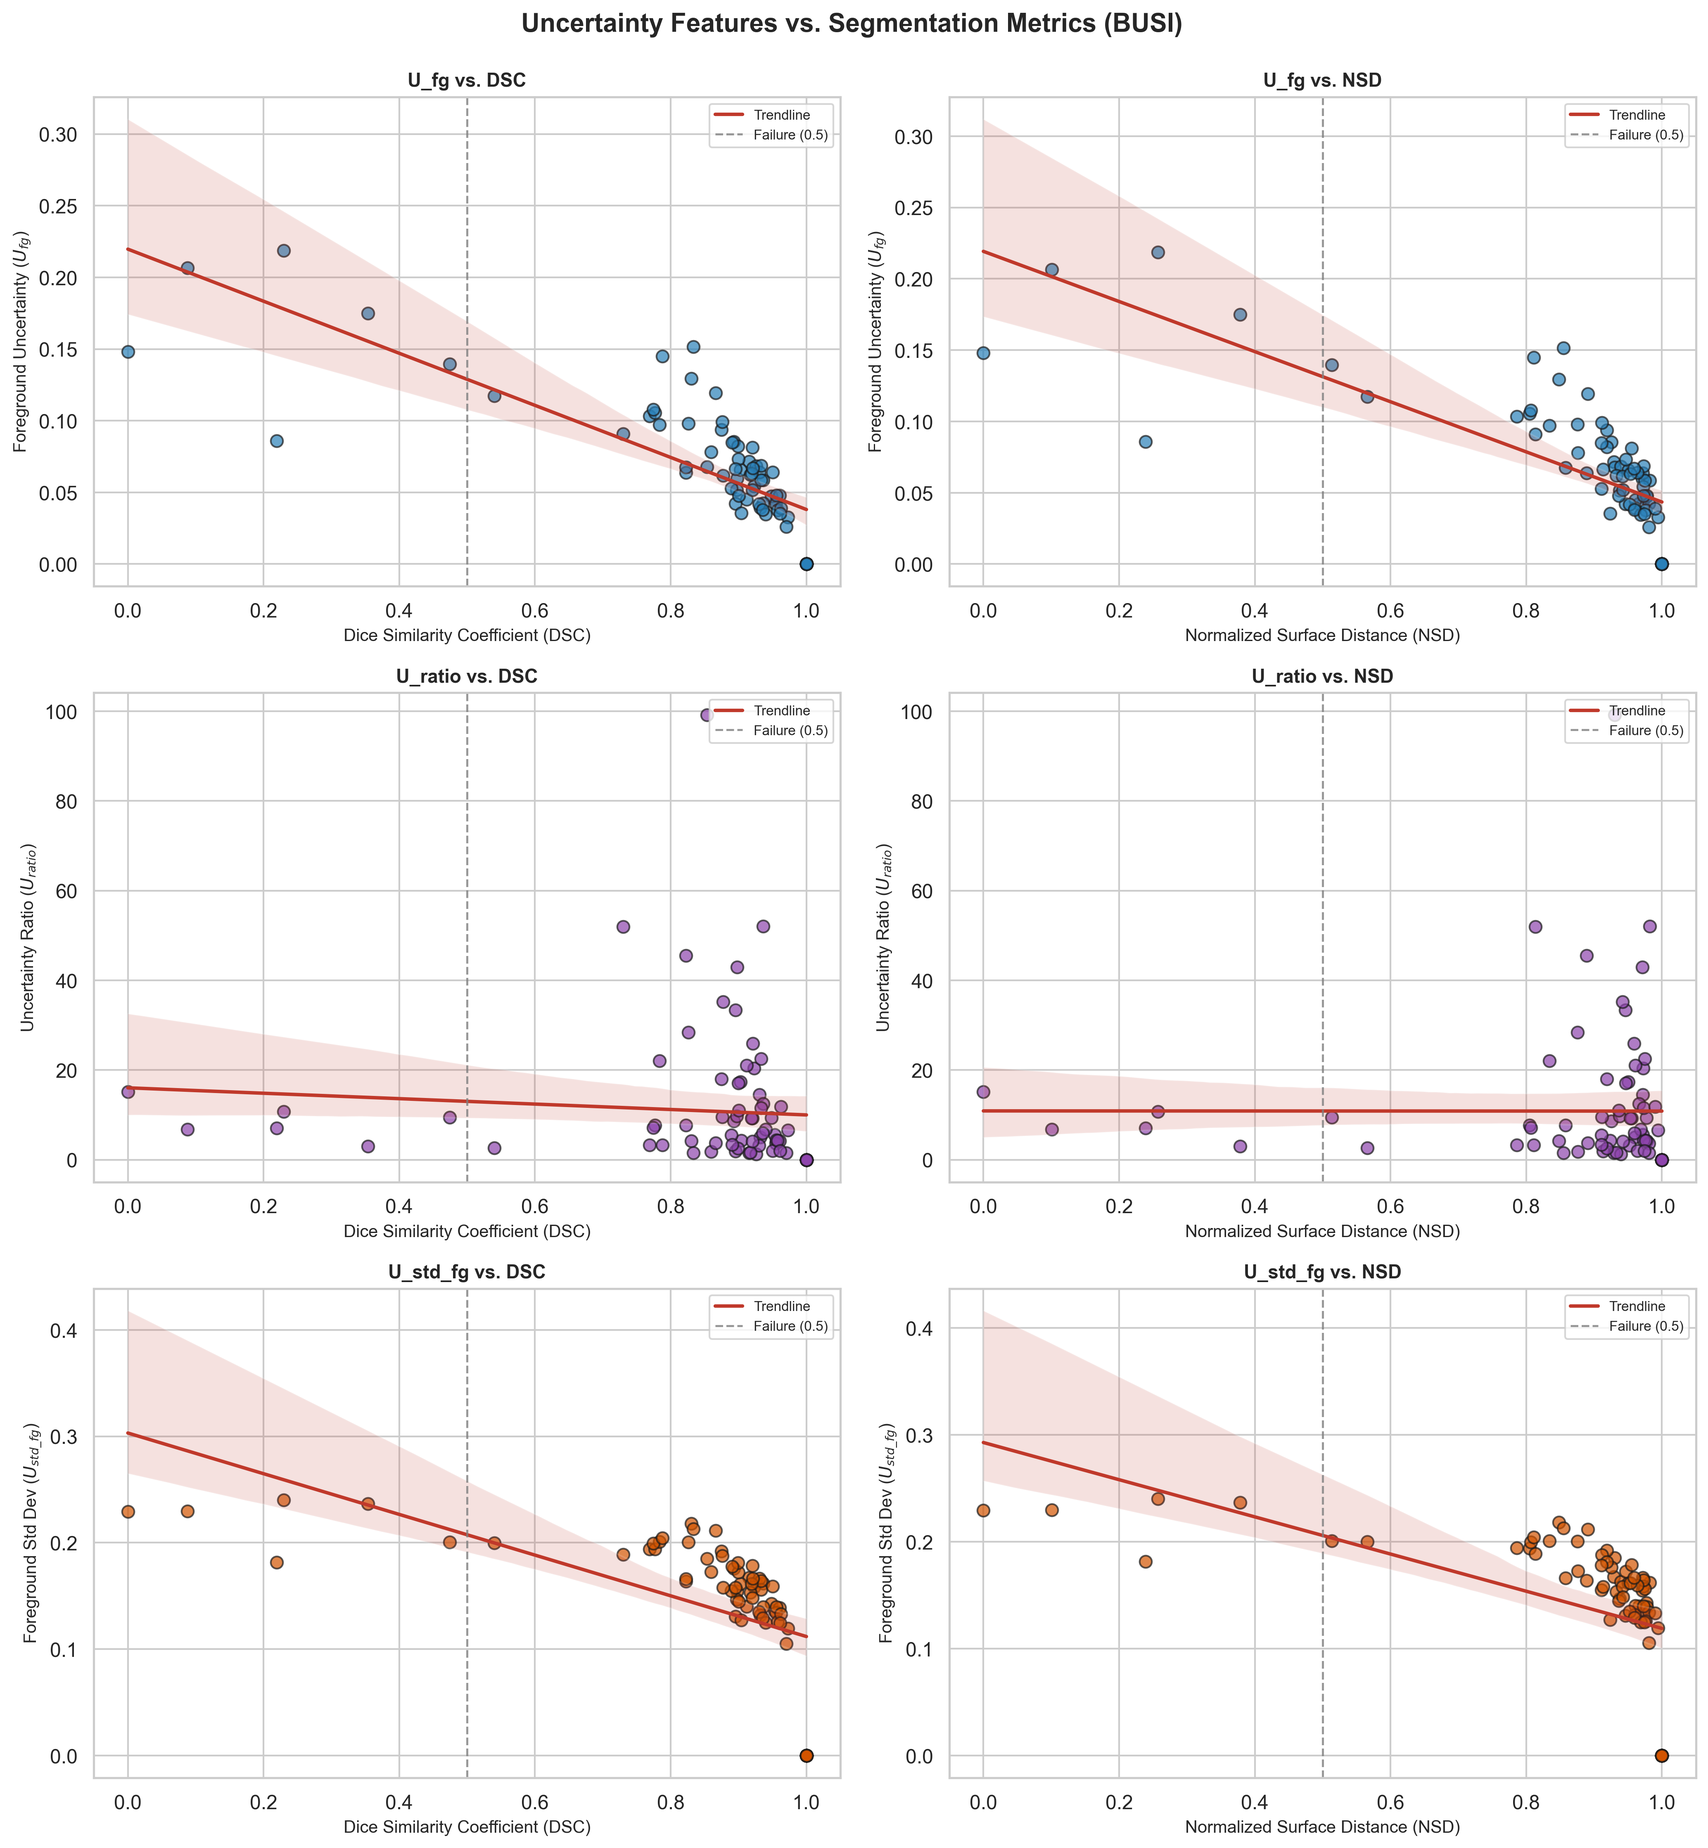
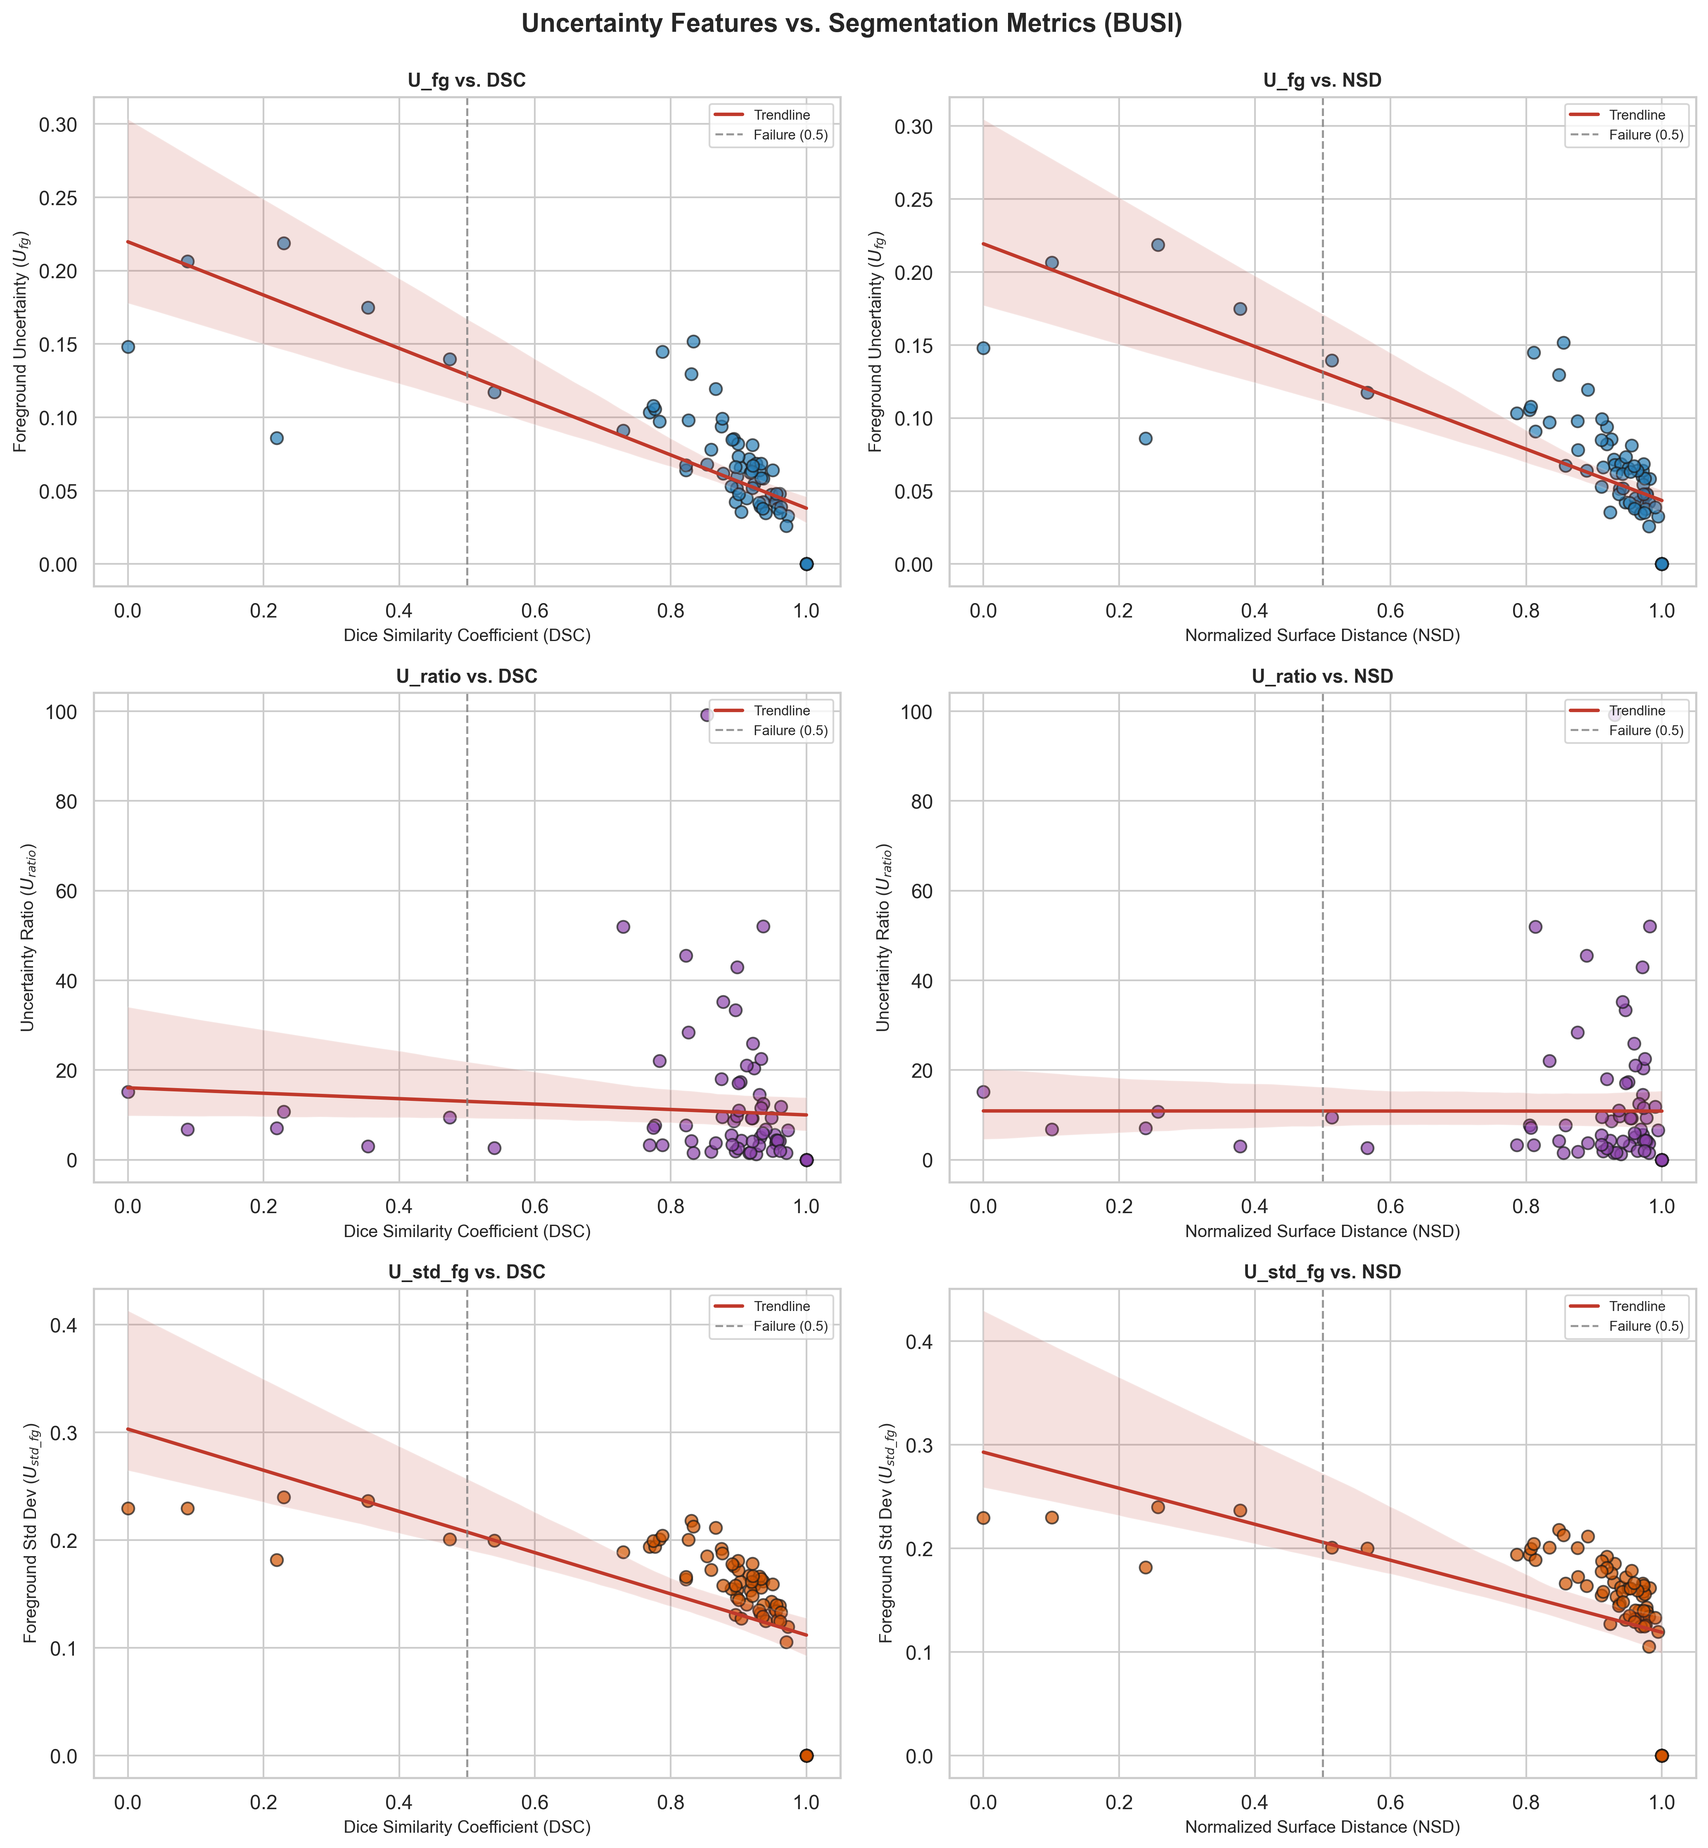
feat(architecture): rename workstreams to research contributions (uncertainty_rejection, prompt_robustness)

diff --git a/uncertainty_rejection/research/aggregation/run_aggregation.py b/uncertainty_rejection/research/aggregation/run_aggregation.py
@@ -12,10 +12,10 @@ import numpy as np
 import matplotlib.pyplot as plt
 import seaborn as sns
 
-# Add paths for fernando modules and shared repo
+# Add paths for uncertainty_rejection modules and shared repo
 REPO_ROOT = os.path.abspath(os.path.join(os.path.dirname(__file__), "..", "..", ".."))
 sys.path.insert(0, REPO_ROOT)
-sys.path.insert(0, os.path.join(REPO_ROOT, "fernando", "src"))
+sys.path.insert(0, os.path.join(REPO_ROOT, "uncertainty_rejection", "src"))
 sys.path.insert(0, os.path.join(REPO_ROOT, "shared"))
 
 from uncertainty.aggregation import extract_image_features

diff --git a/uncertainty_rejection/research/selective_prediction/run_selective_prediction.py b/uncertainty_rejection/research/selective_prediction/run_selective_prediction.py
@@ -10,10 +10,10 @@ import argparse
 import pandas as pd
 import numpy as np
 
-# Add paths for fernando modules and shared repo
+# Add paths for uncertainty_rejection modules and shared repo
 REPO_ROOT = os.path.abspath(os.path.join(os.path.dirname(__file__), "..", "..", ".."))
 sys.path.insert(0, REPO_ROOT)
-sys.path.insert(0, os.path.join(REPO_ROOT, "fernando", "src"))
+sys.path.insert(0, os.path.join(REPO_ROOT, "uncertainty_rejection", "src"))
 sys.path.insert(0, os.path.join(REPO_ROOT, "shared"))
 
 from uncertainty.aggregation import extract_image_features

diff --git a/uncertainty_rejection/tests/test_imports.py b/uncertainty_rejection/tests/test_imports.py
@@ -5,7 +5,7 @@ import sys
 
 REPO_ROOT = os.path.abspath(os.path.join(os.path.dirname(__file__), "..", ".."))
 sys.path.insert(0, REPO_ROOT)
-sys.path.insert(0, os.path.join(REPO_ROOT, "fernando", "src"))
+sys.path.insert(0, os.path.join(REPO_ROOT, "uncertainty_rejection", "src"))
 sys.path.insert(0, os.path.join(REPO_ROOT, "shared"))
 
 

diff --git a/uncertainty_rejection/tests/test_uncertainty.py b/uncertainty_rejection/tests/test_uncertainty.py
@@ -4,7 +4,7 @@ import os
 import sys
 
 REPO_ROOT = os.path.abspath(os.path.join(os.path.dirname(__file__), "..", ".."))
-sys.path.insert(0, os.path.join(REPO_ROOT, "fernando", "src"))
+sys.path.insert(0, os.path.join(REPO_ROOT, "uncertainty_rejection", "src"))
 
 import numpy as np
 import pandas as pd

diff --git a/README.md b/README.md
@@ -8,15 +8,15 @@
 
 ---
 
-## 1. Project Overview & Team Structure
+## 1. Project Overview & Research Architecture
 
 This project extends the MedCLIPSeg baseline into two independent, complementary research workstreams within the IMPACT Lab framework (**BASELINE + ONE CHANGE + FAIR EVALUATION**).
 
-The repository is organized strictly by **research owner**:
+The repository is organized strictly by **research contribution**:
 
 ```text
 MedCLIPSeg-plus-plus/
-├── fernando/                          # Fernando's Research Subproject (Uncertainty & Selective Prediction)
+├── uncertainty_rejection/             # Uncertainty Quantification & Selective Prediction
 │   ├── src/uncertainty/               # Uncertainty extraction, aggregation & rejection library
 │   ├── research/                      # Level 0 experiments (Stages 01-04)
 │   ├── systems/                       # Level 1 (Priority UI) & Level 2 (Similarity Search)
@@ -24,7 +24,7 @@ MedCLIPSeg-plus-plus/
 │   ├── scripts/                       # Stage 02/03 runner scripts & test runner
 │   └── tests/                         # Automated unit & integration tests
 │
-├── ehsan/                             # Ehsan's Research Subproject (Prompt Robustness)
+├── prompt_robustness/                 # Text-Prompt Robustness & Perturbation Analysis
 │   └── research/                      # Text-prompt perturbation & sensitivity experiments
 │
 ├── shared/                            # Minimal Shared Baseline & Infrastructure
@@ -45,13 +45,13 @@ MedCLIPSeg-plus-plus/
 
 ---
 
-## 2. Team Workstreams Summary
+## 2. Research Contributions & Team Credits
 
-| Subproject | Research Owner | Contribution / Scope | Dedicated Branch | Subproject Guide |
-| :--- | :--- | :--- | :--- | :--- |
-| **`fernando/`** | Fernando Garcia Medina | **Uncertainty-Based Selective Prediction**: Raw pixel-level entropy extraction, 5 aggregation metrics, validation threshold calibration, risk-coverage curves, control benchmarks, and domain shift evaluation. | `feature/fernando-uncertainty` | [`fernando/README.md`](fernando/README.md) |
-| **`ehsan/`** | Ehsan | **Text-Prompt Robustness**: Prompt perturbation analysis, linguistic sensitivity, and cross-center phrasing evaluation. | `feature/ehsan-prompt-robustness` | [`ehsan/README.md`](ehsan/README.md) |
-| **`shared/`** | Team Shared | **Common Baseline**: MedCLIPSeg neural network, datasets, consolidated configs, and common execution scripts. | Coordinated via PR | [`shared/README.md`](shared/README.md) |
+| Research Contribution | Module Path | Focus & Scope | Dedicated Branch | Module Guide | Contributor |
+| :--- | :--- | :--- | :--- | :--- | :--- |
+| **Uncertainty-Based Selective Prediction** | `uncertainty_rejection/` | Raw pixel-level entropy extraction, 5 aggregation metrics, validation threshold calibration, risk-coverage curves, control benchmarks, and domain shift evaluation. | `feature/uncertainty-rejection` | [`uncertainty_rejection/README.md`](uncertainty_rejection/README.md) | Fernando Garcia Medina |
+| **Text-Prompt Robustness** | `prompt_robustness/` | Prompt perturbation analysis, linguistic sensitivity, and cross-center phrasing evaluation. | `feature/prompt-robustness` | [`prompt_robustness/README.md`](prompt_robustness/README.md) | Ehsan |
+| **Common Baseline** | `shared/` | MedCLIPSeg neural network, datasets, consolidated configs, and common execution scripts. | Coordinated via PR | [`shared/README.md`](shared/README.md) | Team Shared |
 
 ---
 
@@ -60,15 +60,15 @@ MedCLIPSeg-plus-plus/
 To maintain clean separation between research tracks:
 
 ```text
-  feature/fernando-uncertainty  ───────────────────────────────┐
+  feature/uncertainty-rejection  ──────────────────────────────┐
                                                                 ▼
-                                      PR + Review ───►  main (integrated)
+                                       PR + Review ───►  main (integrated)
                                                                 ▲
-  feature/ehsan-prompt-robustness ─────────────────────────────┘
+  feature/prompt-robustness      ──────────────────────────────┘
 ```
 
-1. **`feature/fernando-uncertainty`**: All commits regarding uncertainty quantification, selective prediction, aggregation metrics, and optional systems.
-2. **`feature/ehsan-prompt-robustness`**: All commits regarding text-prompt design, linguistic perturbations, and prompt sensitivity evaluations.
+1. **`feature/uncertainty-rejection`**: All commits regarding uncertainty quantification, selective prediction, aggregation metrics, and optional systems.
+2. **`feature/prompt-robustness`**: All commits regarding text-prompt design, linguistic perturbations, and prompt sensitivity evaluations.
 3. **`main`**: Production branch containing reviewed, integrated code. Direct pushes to `main` are restricted to integrated releases.
 4. **Shared Core Governance**: Any change to `shared/medclipseg/`, `shared/configs/`, or `shared/scripts/` requires mutual coordination and review.
 
@@ -77,7 +77,7 @@ To maintain clean separation between research tracks:
 ## 4. Attribution of Baseline Enhancements
 
 Although `shared/medclipseg/` serves as the common baseline, specific enhancements were authored by team members:
-- **Fernando** implemented the raw `float32` `.npy` uncertainty extraction in `shared/medclipseg/test.py` (saving uncompressed entropy arrays prior to visualization normalization), dynamic `${MEDCLIPSEG_DATA}` resolution, and Apple Silicon MPS device support.
+- **Fernando Garcia Medina** implemented the raw `float32` `.npy` uncertainty extraction in `shared/medclipseg/test.py` (saving uncompressed entropy arrays prior to visualization normalization), dynamic `${MEDCLIPSEG_DATA}` resolution, and Apple Silicon MPS device support.
 
 ---
 
@@ -90,19 +90,19 @@ source .venv/bin/activate
 pip install -r requirements.txt
 ```
 
-### Run Fernando's Test Suite & Experiments
+### Run Tests & Experiments
 ```bash
 # 1. Run all tests
-bash fernando/scripts/run_tests.sh
+bash uncertainty_rejection/scripts/run_tests.sh
 
 # 2. Run baseline inference (shared engine)
 bash shared/scripts/run_inference.sh BUSI 666
 
 # 3. Run Stage 02 uncertainty aggregation & correlation analysis
-bash fernando/scripts/run_aggregation.sh BUSI 666
+bash uncertainty_rejection/scripts/run_aggregation.sh BUSI 666
 
 # 4. Run Stage 03 selective prediction & control comparison
-bash fernando/scripts/run_selective_prediction.sh BUSI 666 U_fg
+bash uncertainty_rejection/scripts/run_selective_prediction.sh BUSI 666 U_fg
 ```
 
 ---

diff --git a/docs/architecture.md b/docs/architecture.md
@@ -5,35 +5,35 @@
 
 ---
 
-## 1. Team Ownership & Workstream Architecture
+## 1. Research Contributions & Architecture
 
-The repository is organized primarily by **research owner** rather than technical layers, providing complete independence for each researcher while anchoring both in a minimal shared baseline:
+The repository is organized by **research contribution**, providing clear separation of experimental tracks while anchoring both in a minimal shared baseline:
 
 ```mermaid
 graph TD
     classDef shared fill:#2c7a7b,stroke:#234e52,color:#ffffff,stroke-width:2px;
-    classDef fernando fill:#2b5c8f,stroke:#1a365d,color:#ffffff,stroke-width:2px;
-    classDef ehsan fill:#4a5568,stroke:#2d3748,color:#ffffff,stroke-width:1.5px;
+    classDef uq fill:#2b5c8f,stroke:#1a365d,color:#ffffff,stroke-width:2px;
+    classDef prompt fill:#4a5568,stroke:#2d3748,color:#ffffff,stroke-width:1.5px;
     classDef opt fill:#718096,stroke:#4a5568,color:#ffffff,stroke-dasharray: 5 5;
 
     SharedBaseline["shared/medclipseg/<br>(Frozen Foundation & Adapters)"]:::shared
 
-    subgraph FernandoSubproject ["Fernando's Subproject (fernando/)"]
-        F_Uncertainty["fernando/src/uncertainty/<br>(Entropy, Aggregation, Selective Rejection)"]:::fernando
-        F_Research["fernando/research/<br>(Level 0: Experiments 01-04)"]:::fernando
-        F_Sys1["fernando/systems/priority_ui/<br>(Level 1: Triage Dashboard)"]:::opt
-        F_Sys2["fernando/systems/similarity_search/<br>(Level 2: IVF Block Pruning)"]:::opt
+    subgraph UncertaintyContribution ["Uncertainty Quantification & Rejection (uncertainty_rejection/)"]
+        UQ_Uncertainty["uncertainty_rejection/src/uncertainty/<br>(Entropy, Aggregation, Selective Rejection)"]:::uq
+        UQ_Research["uncertainty_rejection/research/<br>(Level 0: Experiments 01-04)"]:::uq
+        UQ_Sys1["uncertainty_rejection/systems/priority_ui/<br>(Level 1: Triage Dashboard)"]:::opt
+        UQ_Sys2["uncertainty_rejection/systems/similarity_search/<br>(Level 2: IVF Block Pruning)"]:::opt
     end
 
-    subgraph EhsanSubproject ["Ehsan's Subproject (ehsan/)"]
-        E_Research["ehsan/research/<br>(Prompt Robustness & Perturbations)"]:::ehsan
+    subgraph PromptRobustnessContribution ["Prompt Robustness & Perturbations (prompt_robustness/)"]
+        PR_Research["prompt_robustness/research/<br>(Prompt Robustness & Perturbations)"]:::prompt
     end
 
-    SharedBaseline --> F_Uncertainty
-    SharedBaseline --> E_Research
-    F_Uncertainty --> F_Research
-    F_Research -->|"Calibrated Tau"| F_Sys1
-    SharedBaseline -->|"CLIP Embeddings"| F_Sys2
+    SharedBaseline --> UQ_Uncertainty
+    SharedBaseline --> PR_Research
+    UQ_Uncertainty --> UQ_Research
+    UQ_Research -->|"Calibrated Tau"| UQ_Sys1
+    SharedBaseline -->|"CLIP Embeddings"| UQ_Sys2
 ```
 
 ---
@@ -43,24 +43,24 @@ graph TD
 ```mermaid
 gitGraph
    commit id: "baseline"
-   branch feature/fernando-uncertainty
-   checkout feature/fernando-uncertainty
+   branch feature/uncertainty-rejection
+   checkout feature/uncertainty-rejection
    commit id: "raw-npy-save"
    commit id: "aggregation-metrics"
    commit id: "selective-prediction"
    checkout main
-   branch feature/ehsan-prompt-robustness
-   checkout feature/ehsan-prompt-robustness
+   branch feature/prompt-robustness
+   checkout feature/prompt-robustness
    commit id: "prompt-scenarios"
    commit id: "perturbation-eval"
    checkout main
-   merge feature/fernando-uncertainty id: "pr-fernando-merge"
-   merge feature/ehsan-prompt-robustness id: "pr-ehsan-merge"
+   merge feature/uncertainty-rejection id: "pr-uq-merge"
+   merge feature/prompt-robustness id: "pr-pr-merge"
 ```
 
 ---
 
-## 3. Level 0: Fernando's Scientific Research Pipeline
+## 3. Level 0: Scientific Uncertainty & Rejection Pipeline
 
 Level 0 is the mandatory core deliverable of the project. It calibrates selective prediction on In-Distribution validation data and tests its robustness under domain shift without model retraining.
 
@@ -79,17 +79,17 @@ flowchart TD
 
     subgraph Stage01 ["Stage 01: Raw Entropy Extraction"]
         Infer["Frozen UniMedCLIP Inference<br>(shared/medclipseg/test.py)"]:::proc
-        SaveRaw["Save Raw float32 .npy<br>(fernando/src/uncertainty/raw_entropy.py)"]:::proc
+        SaveRaw["Save Raw float32 .npy<br>(uncertainty_rejection/src/uncertainty/raw_entropy.py)"]:::proc
     end
 
     subgraph Stage02 ["Stage 02: Aggregation & Correlation"]
-        Agg["Compute Summary Metrics<br>(fernando/src/uncertainty/aggregation.py)"]:::proc
-        Metrics["Spearman rho & AUROC<br>(fernando/research/aggregation/)"]:::proc
+        Agg["Compute Summary Metrics<br>(uncertainty_rejection/src/uncertainty/aggregation.py)"]:::proc
+        Metrics["Spearman rho & AUROC<br>(uncertainty_rejection/research/aggregation/)"]:::proc
     end
 
     subgraph Stage03 ["Stage 03: Selective Prediction"]
         Calib["Calibrate Fixed Tau_c on Val<br>(calibrate_rejection_threshold)"]:::dec
-        RiskCov["Risk-Coverage Curves & AURC<br>(fernando/research/selective_prediction/)"]:::proc
+        RiskCov["Risk-Coverage Curves & AURC<br>(uncertainty_rejection/research/selective_prediction/)"]:::proc
         Controls["Evaluate Controls<br>(Random, Naive Confidence, Oracle)"]:::proc
     end
 
@@ -116,7 +116,7 @@ flowchart TD
 
 ---
 
-## 4. Level 1: Operational Triage & Priority Flow (Fernando)
+## 4. Level 1: Operational Triage & Priority Flow
 
 Level 1 specifies an interactive triage dashboard for new unannotated ultrasound acquisitions where ground truth is not available.
 
@@ -124,7 +124,7 @@ Level 1 specifies an interactive triage dashboard for new unannotated ultrasound
 sequenceDiagram
     autonumber
     actor Clinician as Sonographer / Specialist
-    participant UI as Priority Triage Dashboard (fernando/systems/priority_ui/)
+    participant UI as Priority Triage Dashboard (uncertainty_rejection/systems/priority_ui/)
     participant Backend as Shared Inference Runner (shared/medclipseg/)
     participant Filter as Validation Calibrated Rejection Rule
 
@@ -143,7 +143,7 @@ sequenceDiagram
 
 ---
 
-## 5. Level 2: Similarity Search & Predicate Pruning (Fernando)
+## 5. Level 2: Similarity Search & Predicate Pruning
 
 Level 2 decouples vector indexing from online querying, utilizing precomputed block metadata summaries to prune non-matching IVF posting lists during vector distance computation.
 
